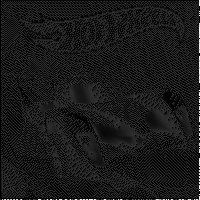
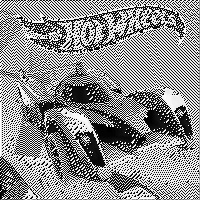
Correccion de funciones de dithering

diff --git a/test.py b/test.py
@@ -4,8 +4,8 @@ import cv2
 import qrcode
 
 
-def find_closest_palette_color(pixel):
-    return round(pixel/255)
+def find_new_pixel(pixel):
+    return 0 if pixel < 128 else 255
 
 
 # Floyd and Steinberg https://engineering.purdue.edu/~bouman/ece637/notes/pdf/Halftoning.pdf pag 22
@@ -16,16 +16,16 @@ def FloydDithering(imagen):
     for x in range(img_gray.shape[0]-1):
         for y in range(img_gray.shape[1]-1):
             oldpixel = img_gray[x, y]
-            newpixel = find_closest_palette_color(oldpixel)
+            newpixel = find_new_pixel(oldpixel)
             img_gray[x, y] = newpixel
             quant_error = oldpixel-newpixel
+            part = quant_error / 16
 
-            img_gray[x+1, y  ] = round(img_gray[x+1, y  ]+quant_error * 7/16)
-            img_gray[x-1, y+1] = round(img_gray[x-1, y+1]+quant_error * 3/16)
-            img_gray[x  , y+1] = round(img_gray[x  , y+1]+quant_error * 5/16)
-            img_gray[x+1, y+1] = round(img_gray[x+1, y+1]+quant_error * 1/16)
+            img_gray[x+1, y] = round(img_gray[x+1, y] + (part * 7))
+            img_gray[x-1, y+1] = round(img_gray[x-1, y+1] + (part * 3))
+            img_gray[x, y+1] = round(img_gray[x, y+1] + (part * 5))
+            img_gray[x+1, y+1] = round(img_gray[x+1, y+1] + (part * 1))
     cv2.imwrite('floydDit.jpg', img_gray)
-    binarizacion('floydDit.jpg', 23)
 
 
 # Jarvis, Judice, and Ninke https://engineering.purdue.edu/~bouman/ece637/notes/pdf/Halftoning.pdf pag 22
@@ -36,26 +36,27 @@ def JarvisDithering(imagen):
     for x in range(img_gray.shape[0] - 2):
         for y in range(img_gray.shape[1] - 2):
             oldpixel = img_gray[x, y]
-            newpixel = find_closest_palette_color(oldpixel)
+            newpixel = find_new_pixel(oldpixel)
             img_gray[x, y] = newpixel
             quant_error = oldpixel - newpixel
-            img_gray[x + 1, y    ] = round(img_gray[x + 1, y    ] + quant_error * 7 / 48)
-            img_gray[x + 2, y    ] = round(img_gray[x + 2, y    ] + quant_error * 5 / 48)
+            part = quant_error / 48
 
-            img_gray[x - 2, y + 1] = round(img_gray[x - 2, y + 1] + quant_error * 3 / 48)
-            img_gray[x - 1, y + 1] = round(img_gray[x - 1, y + 1] + quant_error * 5 / 48)
-            img_gray[x    , y + 1] = round(img_gray[x    , y + 1] + quant_error * 7 / 48)
-            img_gray[x + 1, y + 1] = round(img_gray[x + 1, y + 1] + quant_error * 5 / 48)
-            img_gray[x + 2, y + 1] = round(img_gray[x + 2, y + 1] + quant_error * 3 / 48)
+            img_gray[x + 1, y] = round(img_gray[x + 1, y] + part * 7)
+            img_gray[x + 2, y] = round(img_gray[x + 2, y] + part * 5)
 
-            img_gray[x - 2, y + 2] = round(img_gray[x - 2, y + 2] + quant_error * 1 / 48)
-            img_gray[x - 1, y + 2] = round(img_gray[x - 1, y + 2] + quant_error * 3 / 48)
-            img_gray[x    , y + 2] = round(img_gray[x    , y + 2] + quant_error * 5 / 48)
-            img_gray[x + 1, y + 2] = round(img_gray[x + 1, y + 2] + quant_error * 3 / 48)
-            img_gray[x + 2, y + 2] = round(img_gray[x + 2, y + 2] + quant_error * 1 / 48)
+            img_gray[x - 2, y + 1] = round(img_gray[x - 2, y + 1] + part * 3)
+            img_gray[x - 1, y + 1] = round(img_gray[x - 1, y + 1] + part * 5)
+            img_gray[x, y + 1] = round(img_gray[x, y + 1] + part * 7)
+            img_gray[x + 1, y + 1] = round(img_gray[x + 1, y + 1] + part * 5)
+            img_gray[x + 2, y + 1] = round(img_gray[x + 2, y + 1] + part * 3)
+
+            img_gray[x - 2, y + 2] = round(img_gray[x - 2, y + 2] + part * 1)
+            img_gray[x - 1, y + 2] = round(img_gray[x - 1, y + 2] + part * 3)
+            img_gray[x, y + 2] = round(img_gray[x, y + 2] + part * 5)
+            img_gray[x + 1, y + 2] = round(img_gray[x + 1, y + 2] + part * 3)
+            img_gray[x + 2, y + 2] = round(img_gray[x + 2, y + 2] + part * 1)
 
     cv2.imwrite('JarvisDit.jpg', img_gray)
-    binarizacion('JarvisDit.jpg', 31)
 
 
 def cambia_tamano_de_esta_imagen(nombre_imagen):
@@ -75,21 +76,17 @@ def binarizacion(imagen, threshold):
     img = cv2.imread(imagen)
     img_gray = cv2.cvtColor(img, cv2.COLOR_BGR2GRAY)
 
-    cv2.imwrite('gray.jpg', img_gray)
+    cv2.imwrite('graybin.jpg', img_gray)
 
     for i in range(img_gray.shape[0]):
         for j in range(img_gray.shape[1]):
+            print(" pixel {}".format(img_gray[i, j]))
             if img_gray[i, j] > threshold:
                 img_gray[i, j] = 0
             else:
                 img_gray[i, j] = 255
 
     cv2.imwrite('bin'+str(threshold)+'.jpg', img_gray)
-
-# def luminance_Beta(QR, imagen_original):
-# def luminance_Alfa(QR, imagen_original):
-# def luminance_BetaC(QR, imagen_original):
-# def luminance_AlfaC(QR, imagen_original):
 
 
 Qr = qrcode.make("Que tranza carranza")
@@ -101,8 +98,8 @@ cambia_tamano_de_esta_imagen('qrprueba.png')
 cambia_tamano_de_esta_imagen('carrito.png')
 
 # binarizacion('carrito.png', 127)
-# FloydDithering('carrito.png')
-JarvisDithering('carrito.png')
+FloydDithering('carrito.png')
+# JarvisDithering('carrito.png')
 
 imagen1 = cv2.imread('qrprueba.png')
 imagen2 = cv2.imread('carrito.png')
